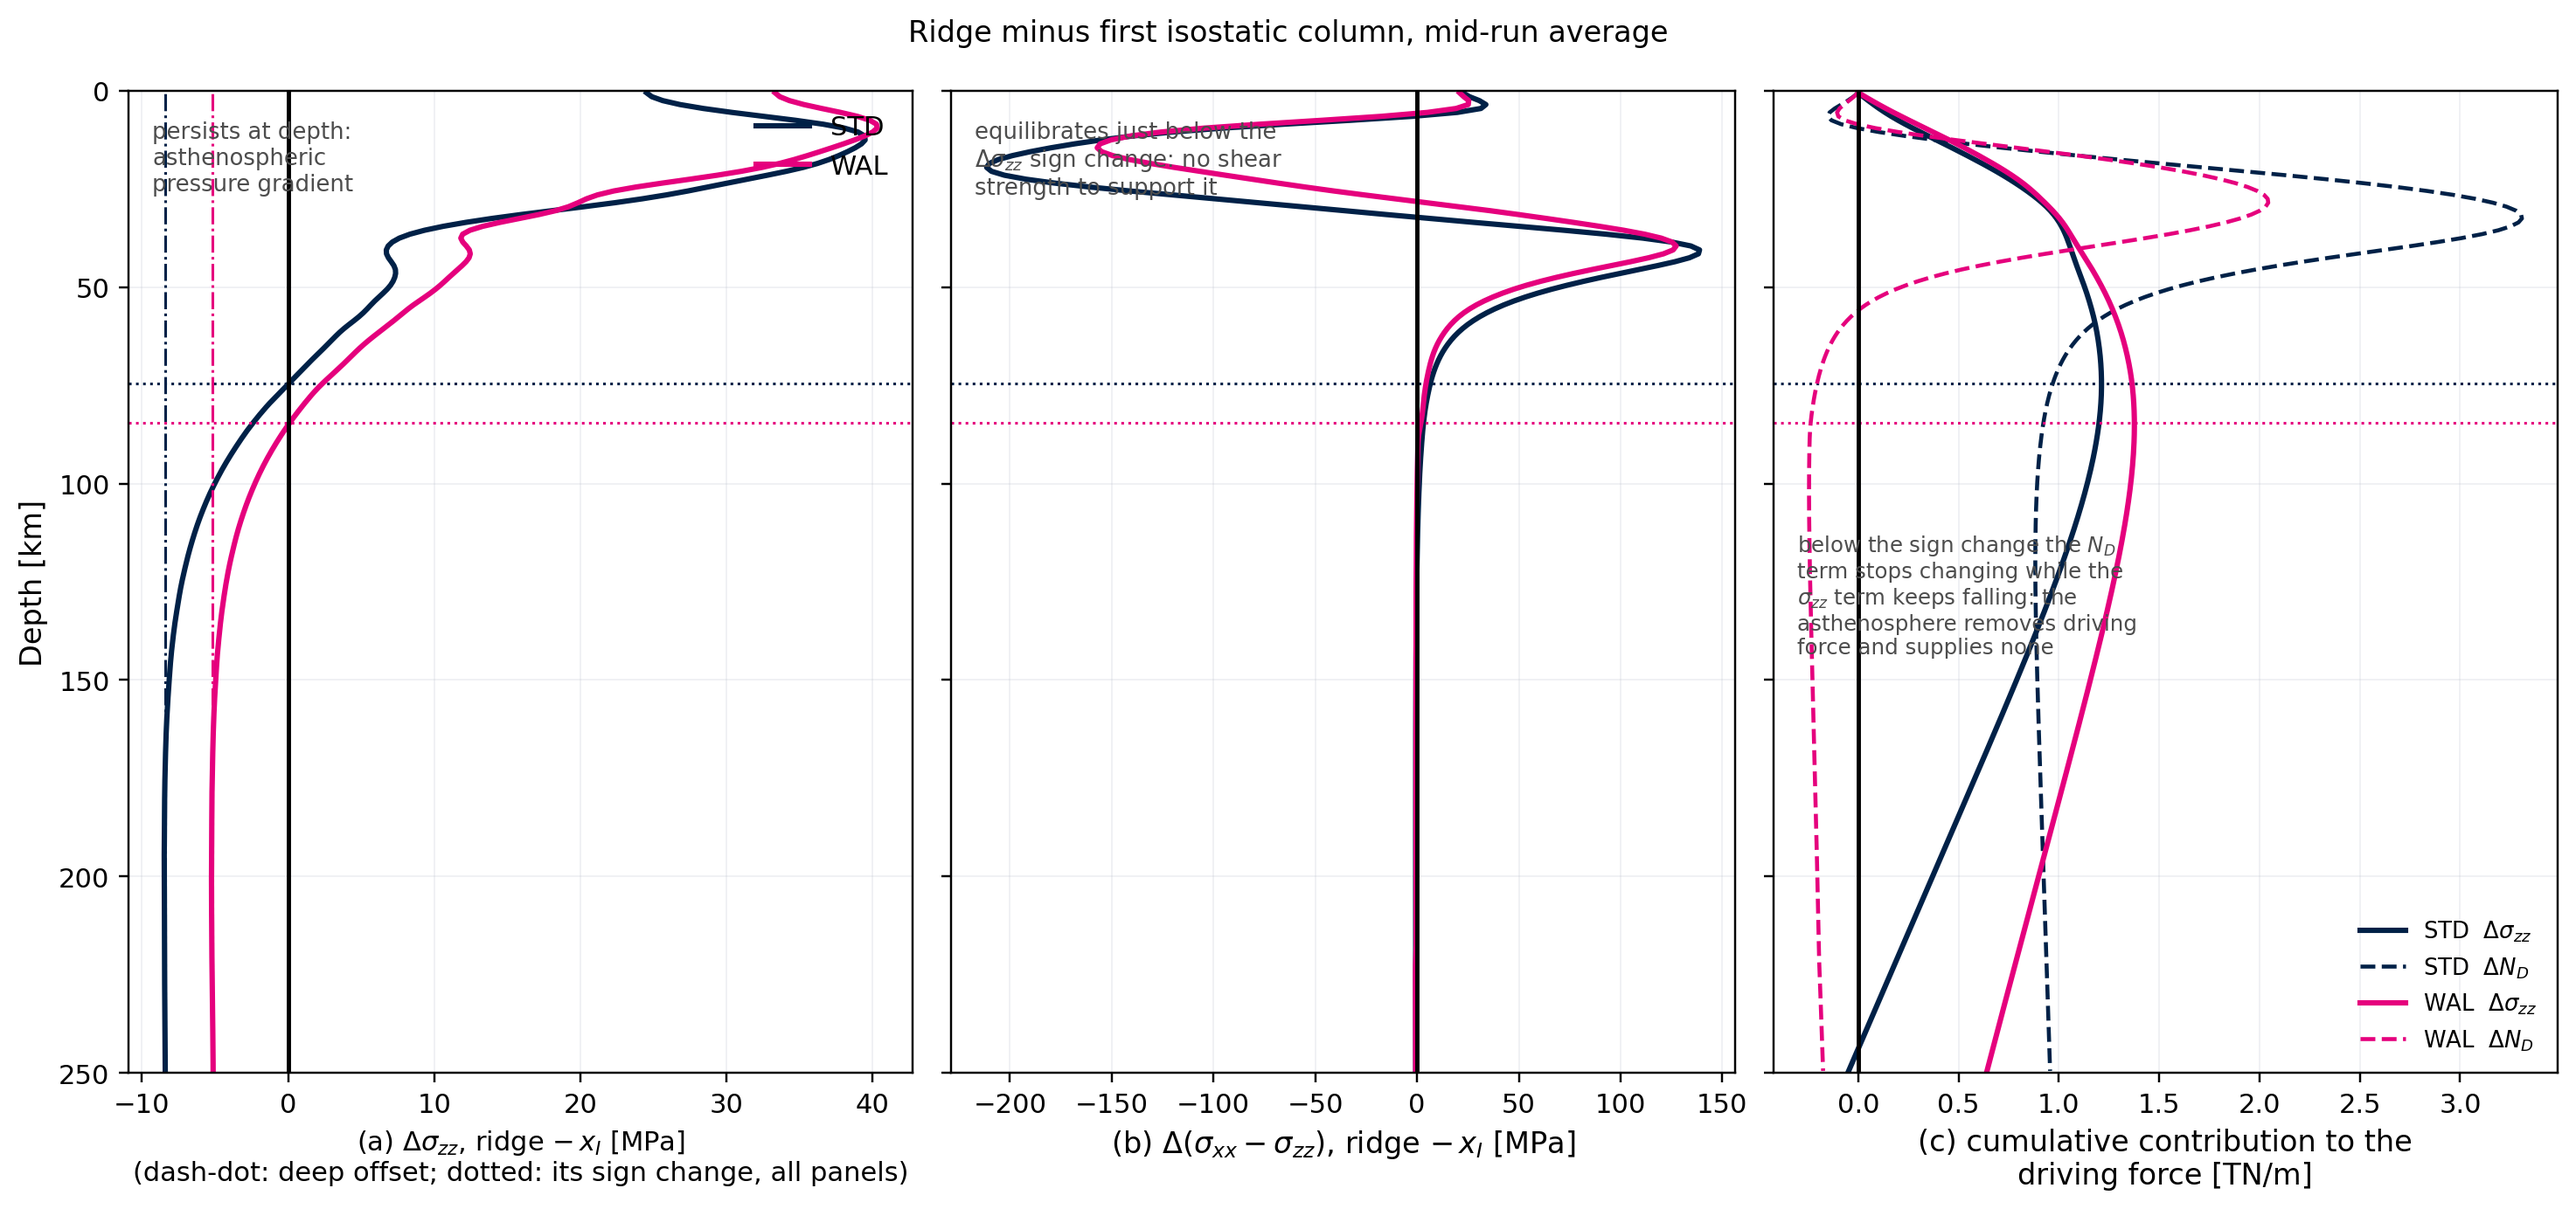
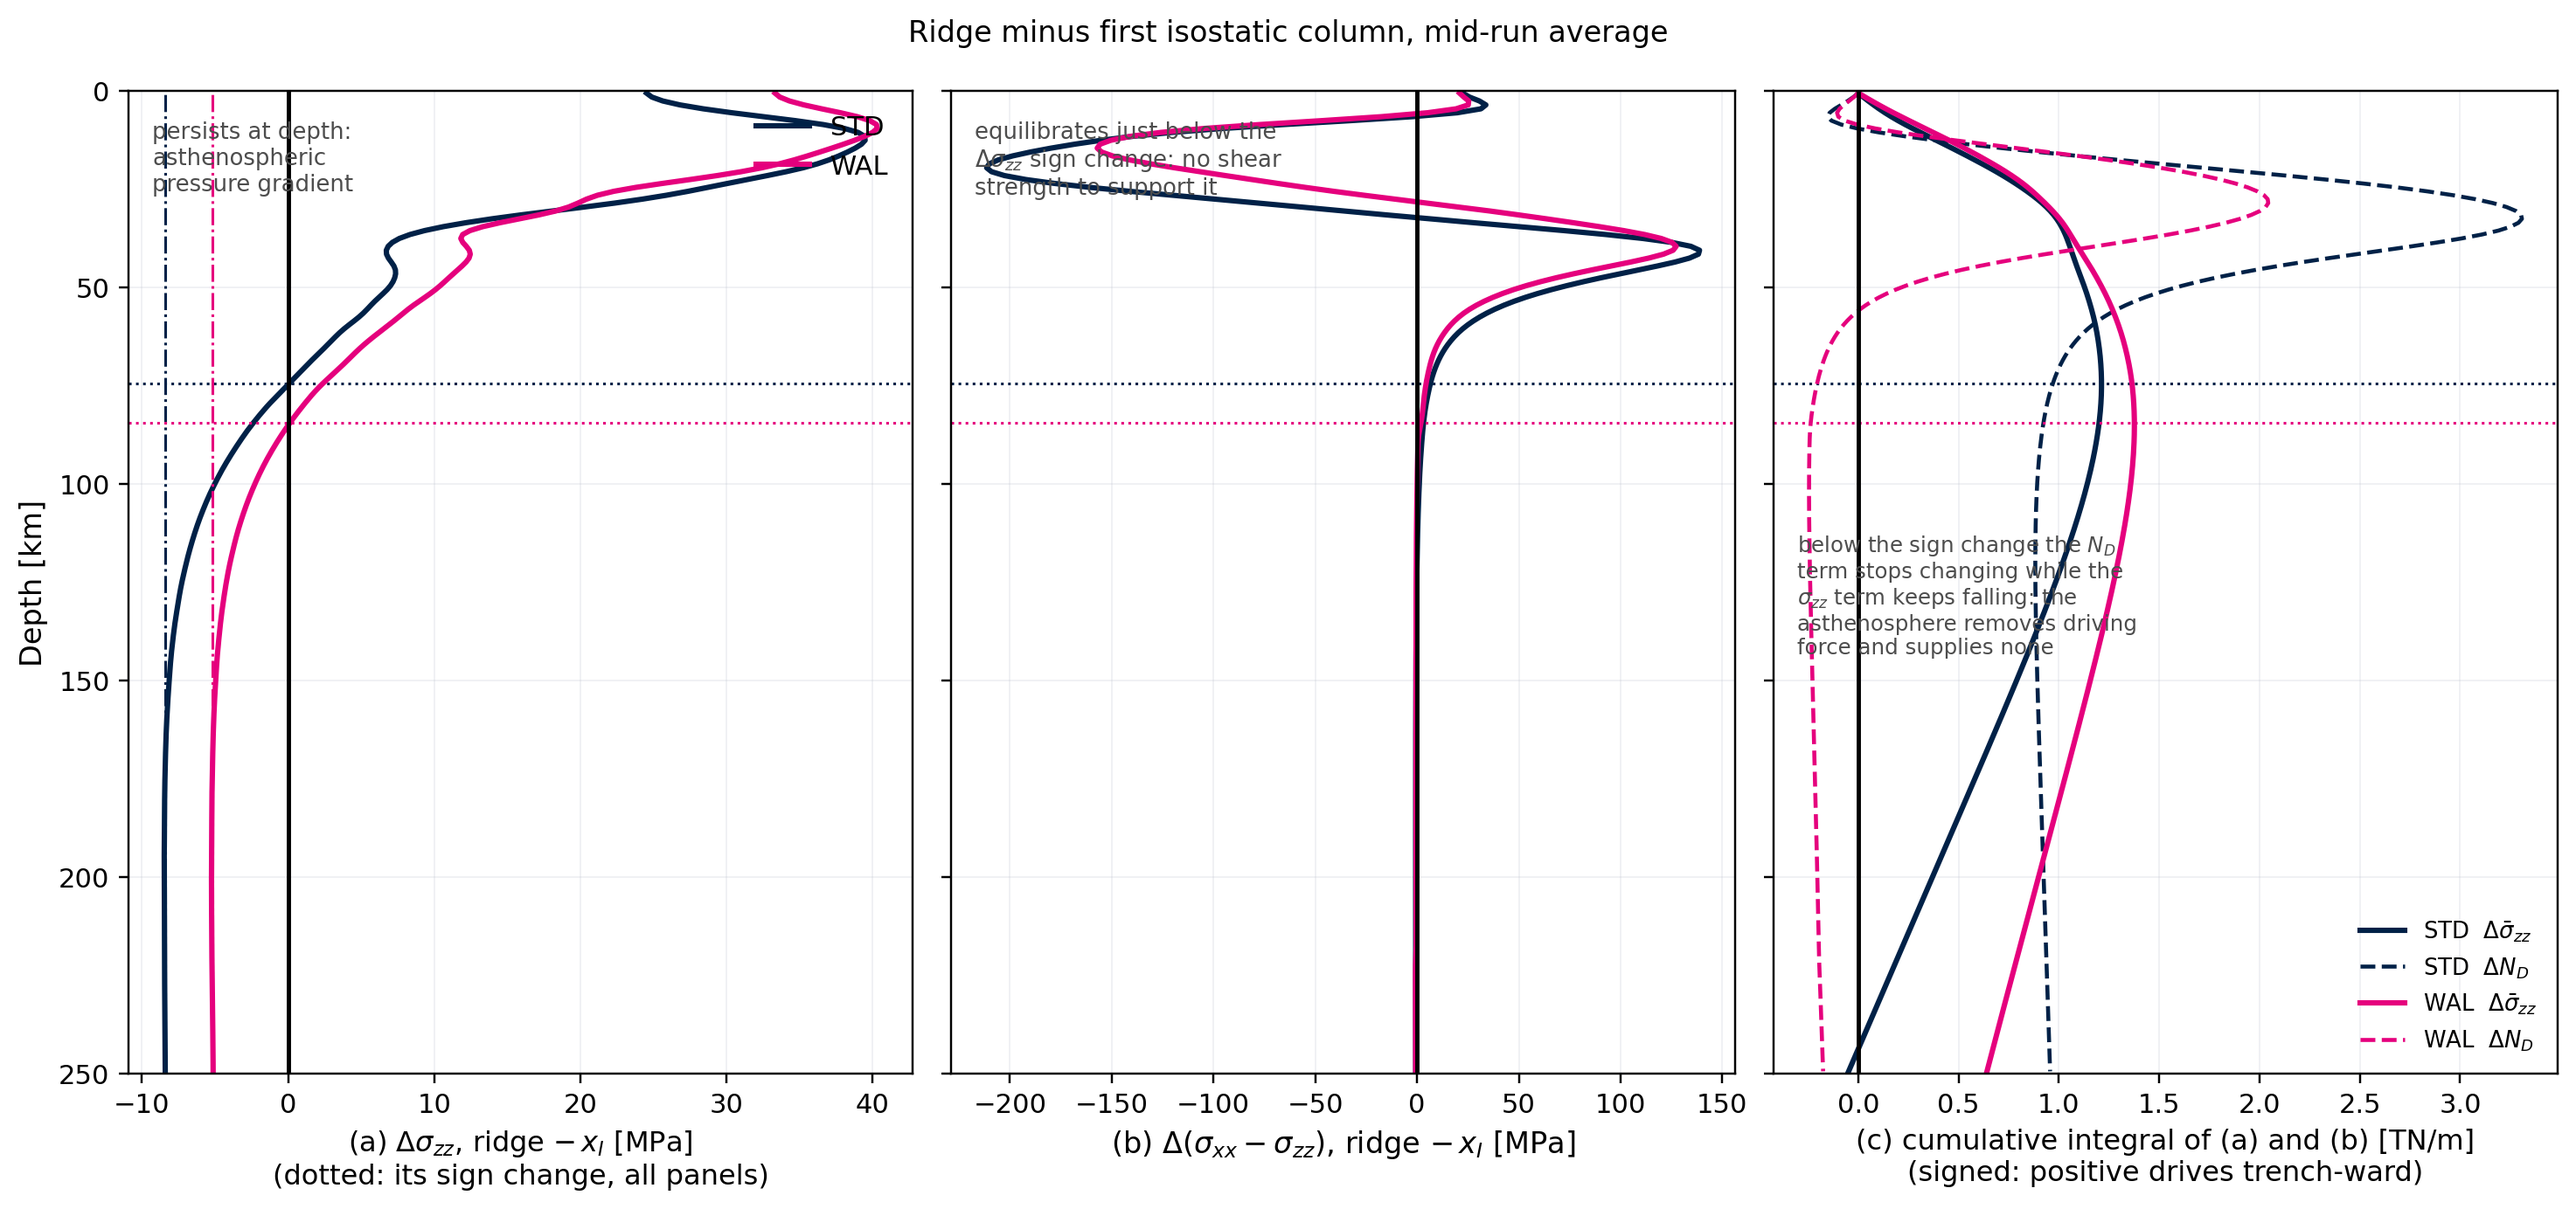
fig_column_anomalies: one horizontal line, force names; ridge figure panel labels
Dan 2026-09-18.

fig_column_anomalies: the z_c line is removed. In STD it fell within
1 km of the Delta sigma_zz sign change, so the two horizontal lines were
indistinguishable and it was no longer clear what controlled either.
The dashed sign change is now the only horizontal line, and the title
says so. 'trench pull' and 'ridge push' are named near the top, in the
corridor between the two bands where each term's amplitude is largest.

fig_ridge_column_stresses: panel (c) is relabelled as the cumulative
integral of (a) and (b), with the sign convention stated, and its legend
now carries the integrated quantity Delta sigma_zz-bar alongside
Delta N_D -- panels (a) and (b) are the pointwise differences, (c) their
integrals.

diff --git a/scripts/fig_column_anomalies.py b/scripts/fig_column_anomalies.py
@@ -68,7 +68,6 @@ def main():
         ax.plot(pRd[m].mean(axis=0), zkm, 'k--', lw=1.2,
                 label='ridge, tilt ($\\Delta P$) removed')
         ax.axvline(0, color='0.7', lw=0.7)
-        ax.axhline(cpc.ZC_KM, color='0.5', lw=0.8, ls=':')
         ax.set_title(f'{k}  (avg {c["t"][m].min():.0f}–{c["t"][m].max():.0f} Myr, n={m.sum()})',
                      fontsize=10)
         # regime annotations (Dan, 2026-09-18): above the sign change the
@@ -79,6 +78,12 @@ def main():
         sgn = np.where((pr[:-1] > 0) & (pr[1:] <= 0) & (zkm[:-1] > 20))[0]
         z_x = zkm[sgn[0]] if len(sgn) else np.nan
         ax.axhline(z_x, color='0.35', lw=0.9, ls='--')
+        # name the two forces where their amplitude is largest, in the
+        # corridor between the trench and ridge bands (Dan, 2026-09-18)
+        ax.text(-5, 17, 'trench pull', ha='right', va='center', fontsize=10,
+                color='0.15')
+        ax.text(5, 17, 'ridge push', ha='left', va='center', fontsize=10,
+                color='0.15')
         # Regime labels: two lines each, set WELL CLEAR of the sign change
         # (one shallower, one much deeper), each with an arrow giving the
         # direction of the force it produces (Dan, 2026-09-18).
@@ -103,8 +108,6 @@ def main():
         ax.set_xlabel('Vertical normal stress anomaly [MPa]\n(pressure-positive)')
     axes[0].set_ylabel('Depth [km]')
     axes[0].set_ylim(230, 0)
-    axes[0].text(0.02, cpc.ZC_KM - 3, '$z_c$', transform=axes[0].get_yaxis_transform(),
-                 fontsize=8, color='0.4', va='bottom')
     axes[0].legend(fontsize=8, frameon=False, loc='lower left')
     fig.suptitle('Column stress anomalies relative to the first isostatic column\n'
                  '(bands: full-run range, 8–80 Myr; dashed: $\\Delta\\sigma_{zz}$ sign change)', fontsize=10)

diff --git a/scripts/fig_ridge_column_stresses.py b/scripts/fig_ridge_column_stresses.py
@@ -114,7 +114,7 @@ def main():
         C_zz = cum(dzz * 1e6) / 1e12
         C_nd = -cum(nd * 1e6) / 1e12
         axes[2].plot(C_zz, zkm, color=col, lw=2.0,
-                     label=f'{key}  $\\Delta\\sigma_{{zz}}$')
+                     label=f'{key}  $\\Delta\\bar\\sigma_{{zz}}$')
         axes[2].plot(C_nd, zkm, color=col, lw=1.5, ls='--',
                      label=f'{key}  $\\Delta N_D$')
         nd_settled = np.interp(240e3, z, C_nd) - np.interp(100e3, z, C_nd)
@@ -147,12 +147,11 @@ def main():
                  (key, 'cum_nd_change_100_to_240km_TNm', f'{nd_settled:.3f}'),
                  (key, 'cum_szz_loss_below_peak_TNm', f'{zz_lost:.3f}')]
     axes[0].set_xlabel(r'(a) $\Delta\sigma_{zz}$, ridge $-\,x_I$ [MPa]'
-                       '\n(dash-dot: deep offset; dotted: its sign change, all panels)',
-                       fontsize=10)
+                       '\n(dotted: its sign change, all panels)', fontsize=10.5)
     axes[1].set_xlabel(r'(b) $\Delta(\sigma_{xx}-\sigma_{zz})$, ridge $-\,x_I$ [MPa]',
                        fontsize=11)
-    axes[2].set_xlabel('(c) cumulative contribution to the\ndriving force [TN/m]',
-                       fontsize=11)
+    axes[2].set_xlabel('(c) cumulative integral of (a) and (b) [TN/m]\n'
+                       '(signed: positive drives trench-ward)', fontsize=10.5)
     axes[0].set_ylabel('Depth [km]', fontsize=11)
     axes[0].set_ylim(250, 0)
     for ax in axes:
